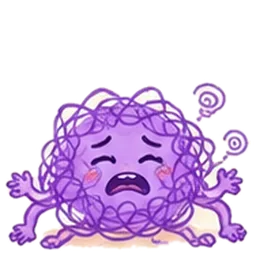
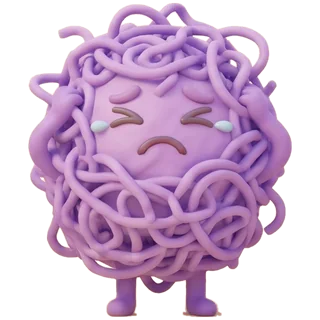
v11.3：做不到怪獸 3D 新圖；寬圖比例修正；保存原始素材與提示詞
- img/stuck*、修正不服氣切圖
- ASPECT：寬圖（拿旗子、張手）身體高度與其他階段一致
- art/source/：Gemini 原圖與水彩參考圖
- art/PROMPTS.md：風格、提示詞範本、各怪獸填空、製作紀錄
- README 加圖片來源說明

Claude-Session: https://claude.ai/code/session_01CEkvYQrBkbWEs5gG6BXqD9

diff --git a/index.html b/index.html
@@ -771,7 +771,9 @@ const moodOf=n=>[1,1,2,3,4,4][n]||3;
 const BADGE={angry:['🚦','紅綠燈徽章','生氣時會先停一下'],sad:['☂','小雨傘','難過時會照顧自己'],defiant:['🏅','進步獎牌','跟昨天的自己比'],
   stuck:['🚩','一步一步旗','把難事切成小步驟'],scared:['🛡','勇氣盾牌','先試一小步'],wronged:['💬','說話泡泡','說出自己的想法']};
 /* 已換成 3D 新圖、有 4 階段成長圖的怪獸（徽章已畫在圖裡，不再疊 emoji） */
-const GROWN=new Set(['angry','sad','defiant']);
+const GROWN=new Set(['angry','sad','defiant','stuck']);
+/* 比較寬的圖（手拿旗子、張開手臂）：寬高比，讓身體高度跟其他階段一致 */
+const ASPECT={stuck2:1.03,stuck4:1.11,stuck0:1.18,stuckg2:1.15,stuckg4:1.11};
 const IMG=(k,st)=>`img/${k}${st}.webp`;
 function nextOf(xp){const l=lvOf(xp);if(l>=LEVELS.length)return {pct:100,need:0};const a=LEVELS[l-1],b=LEVELS[l];return {pct:Math.round((xp-a)/(b-a)*100),need:b-xp}}
 const HEROES={fox:{name:'小狐狸',c:'#F39A4B'},bear:{name:'小熊',c:'#B07A52'},rabbit:{name:'小兔子',c:'#E9DDF2'},cat:{name:'小貓',c:'#9AA3B5'}};
@@ -848,7 +850,7 @@ function monster(kind,size=110,cls='',opt={}){
   return `<svg class="mon ${cls}" width="${size}" height="${size}" viewBox="-8 -22 136 150" aria-label="${e.name}${mood?' '+SIZES[mood-1].n:' '+STAGES[grow-1].n}">
     ${aura}
     <ellipse cx="60" cy="121" rx="${w*.36}" ry="5" fill="${c}" opacity=".18"/>
-    <image href="${mood||!GROWN.has(kind)?IMG(kind,st):`img/${kind}g${grow}.webp`}" x="${x}" y="${y}" width="${w}" height="${w}"/>
+    ${(()=>{const f=mood||!GROWN.has(kind)?`${kind}${st}`:`${kind}g${grow}`;const ar=ASPECT[f]||1;return `<image href="img/${f}.webp" x="${(60-w*ar/2).toFixed(1)}" y="${y}" width="${(w*ar).toFixed(1)}" height="${w}"/>`})()}
     <g transform="translate(0 ${dy.toFixed(1)})">${eq.neck&&ACC[eq.neck]?`<g transform="translate(0 ${(w*.5).toFixed(1)})">${ACC[eq.neck]}</g>`:''}${eq.head&&ACC[eq.head]?ACC[eq.head]:''}</g>${badge}${sparks}
   </svg>`;
 }

diff --git a/art/PROMPTS.md b/art/PROMPTS.md
@@ -1,0 +1,61 @@
+# 情緒怪獸冷靜站：生圖提示詞與素材紀錄
+
+這份檔案記錄所有角色圖是怎麼做出來的，方便之後補圖、改圖，也當作人類創作過程的紀錄。
+
+## 製作方式
+- 角色設定、名稱、情緒與成長的設計：由專案作者構思
+- 圖片：專案作者用 Google Gemini 依下面的提示詞生成，挑選、要求修改後定稿
+- 切圖、去背、放進工具：Claude 協助處理
+- 原始圖檔：`art/source/`；工具使用的圖：`img/`
+
+## 共用風格（每段提示詞前面都可以加）
+```
+Style: 3D animated children's TV look, soft matte clay-like texture, smooth rounded shapes, no harsh lines, warm soft ambient lighting, pastel color palette, cozy and gentle mood.
+```
+規則：
+- 不寫品牌名稱（Disney、Pixar 等），不模仿現有作品的角色
+- 除了家園背景，一律：plain light cream background, full body, front view, spaced apart, no text
+- 圖上不要文字（AI 寫中文字容易變亂碼），需要符號時用圖案（例如腳印）
+
+## 參考圖怎麼給
+- 新對話：上傳「主角群 3D 圖」（風格）＋「情緒怪獸水彩版」（形狀顏色），開頭加：
+```
+Image 1 is the style reference: match its 3D clay look, lighting and proportions. Image 2 is the character reference: keep the [monster]'s shape and color. Do not copy the animals from image 1.
+```
+- 同一個對話裡接著畫下一隻：不用再上傳，用文字說是哪一隻
+- 不要給「成長進化水彩版」（越大越兇，會帶偏）
+- 存圖：長按「儲存影像」或下載鍵，不要截圖
+
+## 每隻怪獸 3 張
+### 1. 情緒大小（4 隻，給「多大」用）
+```
+Now do the [外型] from the original reference, same 3D clay style. Show 4 emotion sizes in a row: [程度1], [程度2], [程度3], [程度4]. Still cute and child-friendly, not scary. Full body, front view, spaced apart, plain light cream background, no text.
+```
+### 2. 冷靜下來（1 隻）
+```
+Same [外型]. Calmed down: [冷靜姿勢]. Full body, front view, plain light cream background, no text.
+```
+### 3. 成長成熟（4 隻，給等級用，都要溫和）
+```
+Same [外型]. 4 growth stages in a row, all calm and kind, never [情緒]: baby (tiny, hugging knees), child (standing, curious smile), teen (taller, confident smile, [徽章] on chest), adult (tallest, warm gentle smile, holding [道具]). Growing more mature, not scarier. Full body, front view, spaced apart, plain light cream background, no text.
+```
+
+## 各怪獸填空
+| 怪獸 | 外型 | 情緒大小 1→4 | 冷靜姿勢 | 徽章 → 道具 | 狀態 |
+|---|---|---|---|---|---|
+| 生氣 angry | red fluffy flame-topped monster | 抱胸嘟嘴 → 咬牙 → 握拳大吼 → 舉手大吼 | eyes closed, peaceful smile, hands on belly | traffic-light badge → small traffic-light sign | ✅ 完成 |
+| 難過 sad | blue water-drop monster | pouting → teary → crying → crying a lot with a puddle | hugging a small heart | small umbrella badge → small umbrella | ✅ 完成 |
+| 不服氣 defiant | orange spiky sun-like monster | grumpy side-eye → arms crossed → stomping, puffed cheeks → arms crossed tightly with steam | arms relaxed, accepting smile, thumbs up | small gold medal badge → holding up a gold medal | ✅ 完成 |
+| 做不到 stuck | purple tangled-yarn monster | small frown → dizzy swirl eyes → holding head → slumped, wants to give up | yarn neat, arms raised "I can do it" | small flag badge → flag with footprint steps | ✅ 完成 |
+| 擔心 scared | green fuzzy monster | a little nervous → worried biting nails → shaking, covering face → very scared hiding | relaxed shoulders, soft smile, one hand on chest breathing | small shield badge → small shield | 待做 |
+| 委屈 wronged | pink round fluffy monster | lips pressed, teary eyes → holding back tears → tears falling → hugging knees crying | soft smile, holding a heart speech bubble | speech-bubble badge → heart speech bubble | 待做 |
+
+## 之後要做
+- 家園背景（無家具、16:9）
+- 家具物品表：小房子、蘋果樹、花圃、池塘、菜園、帳篷、路燈、鞦韆、紅蘿蔔、番茄、玉米、小魚
+- 主角群已完成（`art/source/01-主角群-3D.jpg`），等全部完成後換上
+
+## 去哪裡找更多提示詞
+- 直接請 Claude 或 Gemini 依這份風格寫新的提示詞最穩
+- 也可以參考 Gemini 內建的範例、或搜尋「3D clay character prompt」，看到喜歡的再改成自己的角色
+- 找到的提示詞記得拿掉品牌或作品名稱，只留風格描述

diff --git a/README.md b/README.md
@@ -26,5 +26,8 @@
 ## 提醒
 這是日常情緒陪伴的小工具，不能取代專業評估。若孩子情緒爆發頻繁、強度大、持續很久，或有傷害自己或他人的情形，請諮詢兒童心智科醫師、心理師或學校輔導老師。
 
+## 圖片來源
+角色與情緒設計由作者構思，圖片由作者使用 Google Gemini 依提示詞生成、挑選與修改，並經切圖整理。提示詞與原始圖檔紀錄在 `art/PROMPTS.md`、`art/source/`。
+
 ## 授權
 本作品採用 [創用 CC 姓名標示-非商業性 4.0 國際授權條款（CC BY-NC 4.0）](https://creativecommons.org/licenses/by-nc/4.0/deed.zh-hant)：可以免費使用、分享、修改，但需註明出處，且不可用於商業用途。
